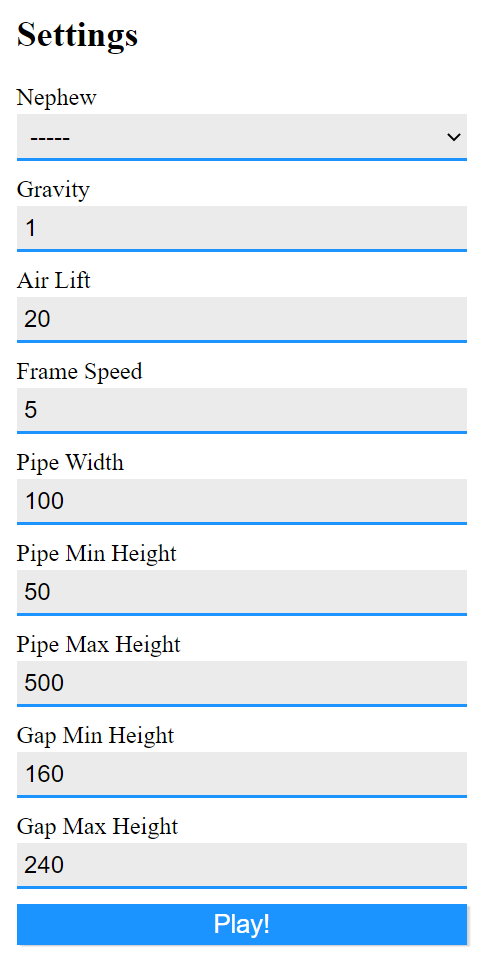
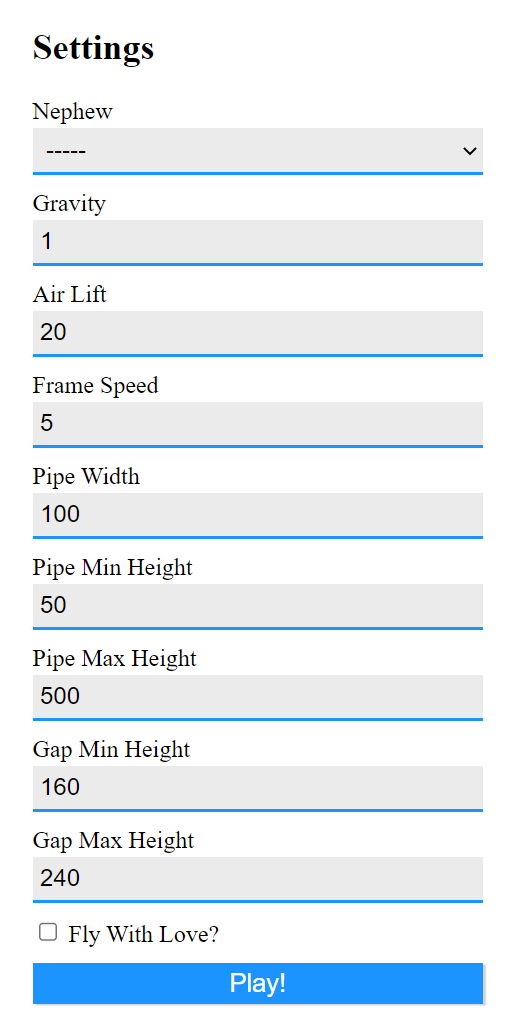
Updated readme for setting docs

Changed region(s): [[0.0308, 0.0932, 0.9856, 0.9938], [0.0308, 0.0, 0.308, 0.0621]]

diff --git a/README.md b/README.md
@@ -8,6 +8,16 @@ You can change the default settings.
 
 <img src="./assets/settings.png" alt="drawing" width="300"/>
 
+* Gravity - How heavy you are dragged down
+* Air Lift - How light you can fly
+* Frame Speed - Speed of frame movement
+* Pipe Width- The width of the pipe
+* Pipe Min Height - The minimum height to the pipe
+* Pipe Max Height - The maximum height to the pipe
+* Gap Min Height - The minimum gap between the top and bottom pipes
+* Gap Max Height - The maximum gap between the top and bottom pipes
+* Fly With Love - Jump with soaring hearts
+
 ### How to Play
 The boys need your help navigating through treacherous pipes. Tap your spacebar to keep them in the air and fly as far as you can without hitting a pipe. 
 
